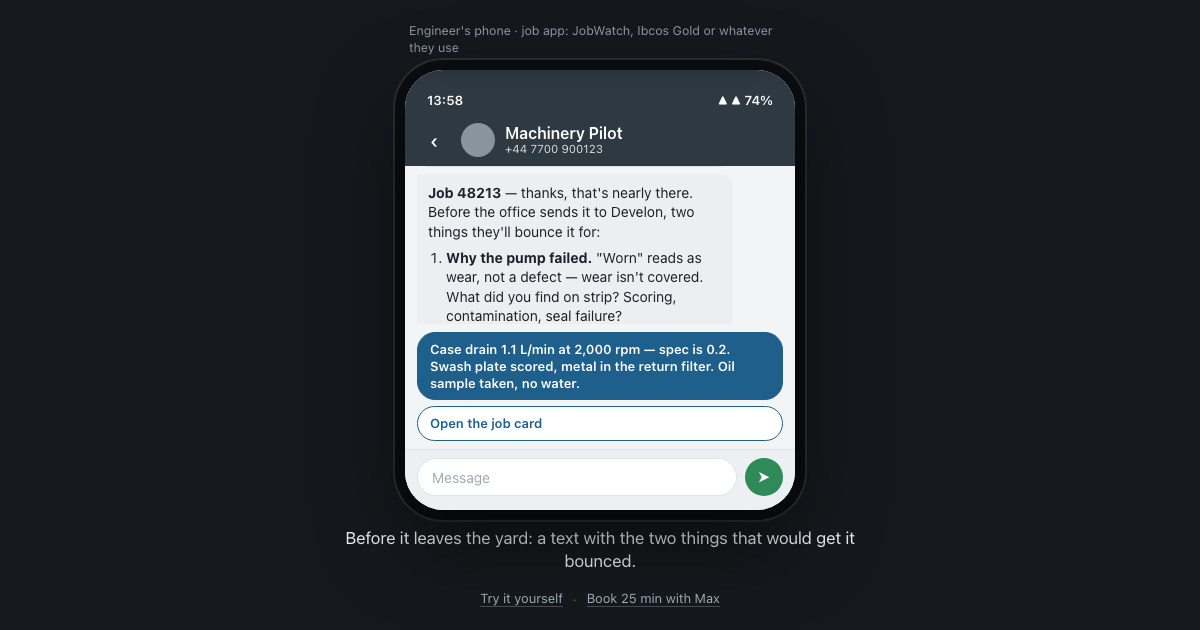
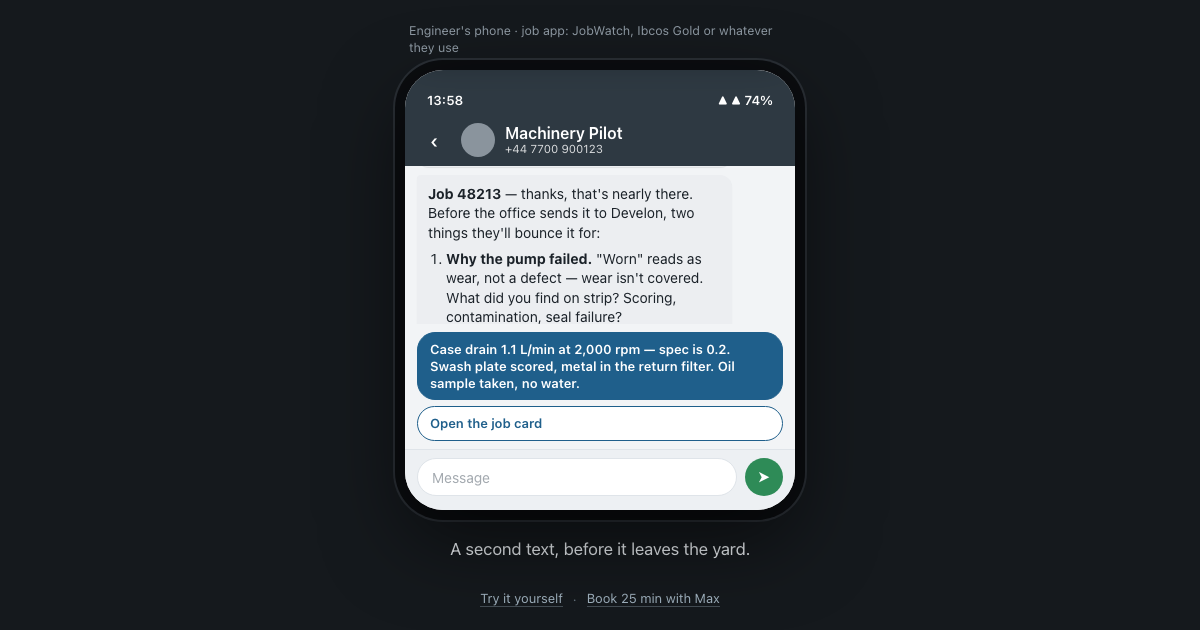
v4: calmer autoplay, 40s loop

Changed region(s): [[0.3392, 0.3016, 0.5858, 0.5127], [0.2775, 0.8444, 0.7092, 0.9048]]

diff --git a/public/index.html b/public/index.html
@@ -111,6 +111,9 @@
     transition:transform .4s cubic-bezier(.4,.1,.2,1),opacity .2s}
   .tip.on{opacity:1}
   .tip.pulse{animation:ping .3s ease}
+  .auto .screen.on{animation:cut .25s ease both}
+  .q.fadein input,.q.fadein textarea,.q.fadein .photo,.q.fadein .tog{animation:cut .45s ease both}
+  @keyframes cut{from{opacity:0}}
   @keyframes ping{50%{transform:scale(.82);background:rgba(255,255,255,.45)}}
   @media (max-width:430px){
     .stage{padding:0;gap:0;height:100dvh;min-height:0;justify-content:flex-start;overflow:hidden}
@@ -299,7 +302,7 @@
   }
 
   // ---- messages
-  const START_MSG = `<b>Job 48213 · Develon DX300LC-7K</b>\nIn warranty (1,240 h, delivered 7 weeks ago). Hydraulic breakdown.\n\nDevelon will ask for these — grab them before you leave:<ol><li>Photo of the hour meter</li><li>Photo of the failed part in situ, before removal</li><li>Case-drain flow on the main pump (their spec is ~0.2 L/min at rated rpm) — that's what condemns it</li><li>What was in the return filter / oil — they'll want to rule out contamination</li></ol>Reply here as you go, or ignore me — I'll check the card when you complete it.`;
+  const START_MSG = `<b>Job 48213 · Develon DX300LC-7K</b>\nDevelon will ask for these — grab them before you leave:<ol><li>Photo of the hour meter</li><li>Photo of the pump in situ, before removal</li><li>Case-drain flow reading — that's what condemns it</li></ol>Reply here as you go, or ignore me — I'll check the card when you complete it.`;
   const GAP_MSG = `<b>Job 48213</b> — thanks, that's nearly there. Before the office sends it to Develon, two things they'll bounce it for:<ol><li><b>Why the pump failed.</b> "Worn" reads as wear, not a defect — wear isn't covered. What did you find on strip? Scoring, contamination, seal failure?</li><li><b>What you measured.</b> There's no case-drain figure on the card. Develon needs the number that condemned the pump.</li></ol>Reply here and I'll put it on the card, or add it yourself.`;
   const OK_MSG = `Added to Cause on job 48213.\n\n<span class="good">Develon check: nothing missing.</span> The office can send it. Cheers — enjoy the rest of the shift.`;
   const REPLY_TXT = `Case drain 1.1 L/min at 2,000 rpm — spec is 0.2. Swash plate scored, metal in the return filter. Oil sample taken, no water.`;
@@ -318,7 +321,7 @@
     if(!AUTO) return kind==='start'?1500:kind==='complete'?3500:1200;
     if(kind==='start') return 1500;                              // tapped at 1.5 s -> banner at 3.0 s
     if(kind==='complete') return Math.max(700,19500-elapsed());  // banner at 19.5 s
-    return Math.max(600,27500-elapsed());                        // confirmation at 27.5 s
+    return Math.max(600,31000-elapsed());                        // confirmation at 31.0 s
   }
 
   function notify(body,onOpen){
@@ -335,7 +338,7 @@
     timers.push(setTimeout(()=>{
       addMsg(START_MSG,'in');
       setReplies([['👍 Got it',()=>{addMsg('👍','out');setReplies([]);}]]);
-      notify('Develon will ask for 4 things on this job — hour meter photo, pump in situ, case-drain flow, filter condition.',()=>{state.threadFrom='job';go('thread');});
+      notify('Develon will ask for 3 things on this job — hour meter photo, pump in situ, case-drain flow.',()=>{state.threadFrom='job';go('thread');});
     },msgDelay('start')));
   });
 
@@ -370,16 +373,18 @@
     Object.assign(state,{started:false,completed:false,fixed:false,threadFrom:'job',hours:'',hourPhoto:false,partPhoto:false,complaint:'',cause:'',correction:'',op:null,banner:null});
     $('threadBody').innerHTML='<div class="day">Today</div>'; setReplies([]); $('banner').classList.remove('on');
     $('tip').classList.remove('on'); $('cap').textContent=''; $('cap').classList.remove('out');
+    document.querySelectorAll('.content').forEach(c=>c.scrollTop=0);
+    document.querySelectorAll('.q').forEach(q=>q.classList.remove('fadein'));
     syncWs(); go('jobs');
   }
 
   // ---- autoplay: drives the same handlers a finger would
   const CAPS = [
-    'Engineer opens a warranty job in the app he already uses.',
-    'A text arrives: what Develon will ask for.',
-    'He writes the card the usual way.',
-    'He completes the job and packs up.',
-    'Before it leaves the yard: a text with the two things that would get it bounced.',
+    'Engineer opens a warranty job.',
+    'A text arrives.',
+    'He fills the card as usual.',
+    'He completes the job and leaves.',
+    'A second text, before it leaves the yard.',
     'Fixed at the machine, not three weeks later.'
   ];
   const CPS = 22;   // ms per character, ~45 chars/s
@@ -409,7 +414,7 @@
   }
   function tapAt(t,get){            // element is clicked at t ms into the loop
     const tip=$('tip');
-    at(Math.max(0,t-700),()=>{ const el=get(); if(el) reveal(el); });
+    at(Math.max(0,t-900),()=>{ const el=get(); if(el) reveal(el); });
     if(!RM){
       at(Math.max(0,t-450),()=>{ const el=get(); if(el) moveTip(el); });
       at(Math.max(0,t-120),()=>tip.classList.add('pulse'));
@@ -426,46 +431,42 @@
     },CPS);
     ticks.push(id);
   }
-  function typeFill(done){          // top to bottom, the order an engineer works down the card
-    const steps=[
-      cb=>type($('q-hours'),FILL.hours,cb),
-      cb=>{ $('q-hourphoto').click(); at(200,cb); },
-      cb=>{ $('q-partphoto').click(); at(200,cb); },
-      cb=>type($('q-complaint'),FILL.complaint,cb),
-      cb=>type($('q-cause'),FILL.cause,()=>at(1000,cb)),
-      cb=>type($('q-correction'),FILL.correction,cb),
-      cb=>{ $('op-yes').click(); at(150,cb); }
-    ];
-    (function next(i){ if(i>=steps.length){ readWs(); syncJob(); done(); return; } steps[i](()=>next(i+1)); })(0);
+  function fadeFill(){              // the card as the engineer would have filled it, bar the Cause
+    Object.assign(state,{hours:FILL.hours,hourPhoto:true,partPhoto:true,op:'yes',
+      complaint:FILL.complaint,correction:FILL.correction});
+    syncWs(); syncJob();
+    document.querySelectorAll('#wsForm .q:not(#wrap-cause)').forEach(q=>{
+      q.classList.remove('fadein'); void q.offsetWidth; q.classList.add('fadein');
+    });
   }
 
   function play(){
     reset(); t0=Date.now();
-    caption(CAPS[0]);
-    tapAt(900,()=>$('jobMain'));                      // 0.0 jobs list
-    tapAt(1500,()=>$('startBtn'));                    // 1.5 job detail
-    at(3000,()=>caption(CAPS[1]));                    // 3.0 banner lands (msgDelay)
-    tapAt(4500,()=>$('banner'));                      // 4.5 thread, Start message
-    at(9000,()=>caption(CAPS[2]));
-    tapAt(9000,()=>$('threadBack'));                  // 9.0 back to the job
-    tapAt(9500,()=>$('wsRow'));                       // 9.5 worksheet
-    at(9700,()=>typeFill(()=>{
-      const save=Math.max(200,16000-elapsed());
-      tapAt(save,()=>$('saveBtn'));                   // 16.0 save
-      tapAt(save+800,()=>$('completeBtn'));           //      complete -> jobs list
-    }));
-    at(16000,()=>caption(CAPS[3]));
-    at(19500,()=>caption(CAPS[4]));                   // 19.5 banner lands (msgDelay)
-    tapAt(21000,()=>$('banner'));                     // 21.0 thread, gap message
-    tapAt(26000,()=>$('replies').querySelector('button'));
-    at(27500,()=>caption(CAPS[5]));                   // 27.5 confirmation lands (msgDelay)
-    at(33500,()=>document.querySelector('.stage').classList.add('fade'));   // 31.0 + 3 s hold
-    at(34000,()=>{ document.querySelector('.stage').classList.remove('fade'); play(); });
+    go('job');                                     // 0.0  straight into the job, no jobs list
+    at(300,()=>caption(CAPS[0]));
+    tapAt(2000,()=>$('startBtn'));                 // 2.0  the only finger on this screen
+    at(3900,()=>caption(CAPS[1]));                 // 3.5  banner lands (msgDelay), caption after it
+    at(5000,()=>$('banner').click());              // 5.0  cut to the thread, then 6 s of nothing
+    at(11500,()=>go('job'));                       // 11.5 two 250 ms cuts back into the card
+    at(11750,()=>go('worksheet'));
+    at(12100,()=>caption(CAPS[2]));
+    at(12500,fadeFill);                            // 12.5 filled, bar the Cause
+    at(13600,()=>reveal($('q-cause')));
+    at(14000,()=>type($('q-cause'),FILL.cause));   // 14.0 types, then holds 1.5 s
+    tapAt(16000,()=>$('saveBtn'));                 // 16.0 save…
+    at(16400,doComplete);                          //      …which completes it here
+    at(16800,()=>caption(CAPS[3]));
+    at(19900,()=>caption(CAPS[4]));                // 19.5 banner lands (msgDelay)
+    at(21000,()=>$('banner').click());             // 21.0 gap message, then 7 s of nothing
+    tapAt(28500,()=>$('replies').querySelector('button'));
+    at(31400,()=>caption(CAPS[5]));                // 31.0 confirmation lands (msgDelay)
+    at(39500,()=>document.querySelector('.stage').classList.add('fade'));   // 37.0 + 3 s hold
+    at(40000,()=>{ document.querySelector('.stage').classList.remove('fade'); play(); });
   }
 
   $('mode').textContent = AUTO?'Try it yourself':'Watch it play';
   $('mode').href = AUTO?'?manual':'/';
-  if(AUTO) play();
+  if(AUTO){ document.body.classList.add('auto'); play(); }
   else { reset(); $('cap').textContent='Your turn — open the Ashcroft job and work it through.'; }
 })();
 </script>

diff --git a/tools/record.py b/tools/record.py
@@ -5,9 +5,9 @@
   python3 tools/record.py --skip-og  # videos only
 
 Outputs (video/ is gitignored):
-  video/raw/desktop.webm      1280x720, one full 34 s loop
-  video/raw/mobile.webm       390x844,  one full 34 s loop
-  video/shots/t{5,12,22,28}.png  verification frames
+  video/raw/desktop.webm      1280x720, one full 40 s loop
+  video/raw/mobile.webm       390x844,  one full 40 s loop
+  video/shots/t{6,15,23,32}.png  verification frames
   public/og.png               1200x630 share image, the 21.0 s state
 Then run tools/make-video.sh to produce the mp4s and the gif.
 """
@@ -25,8 +25,8 @@ from playwright.sync_api import sync_playwright
 ROOT = pathlib.Path(__file__).resolve().parent.parent
 PUBLIC = ROOT / "public"
 VIDEO = ROOT / "video"
-LOOP_MS = 34_000          # one full loop of the timeline
-SHOTS_MS = (5_000, 12_000, 22_000, 28_000)
+LOOP_MS = 40_000          # one full loop of the timeline
+SHOTS_MS = (6_000, 15_000, 23_000, 32_000)
 OG_MS = 21_600            # the 21.0 s beat: thread open on the gap message
 
 
